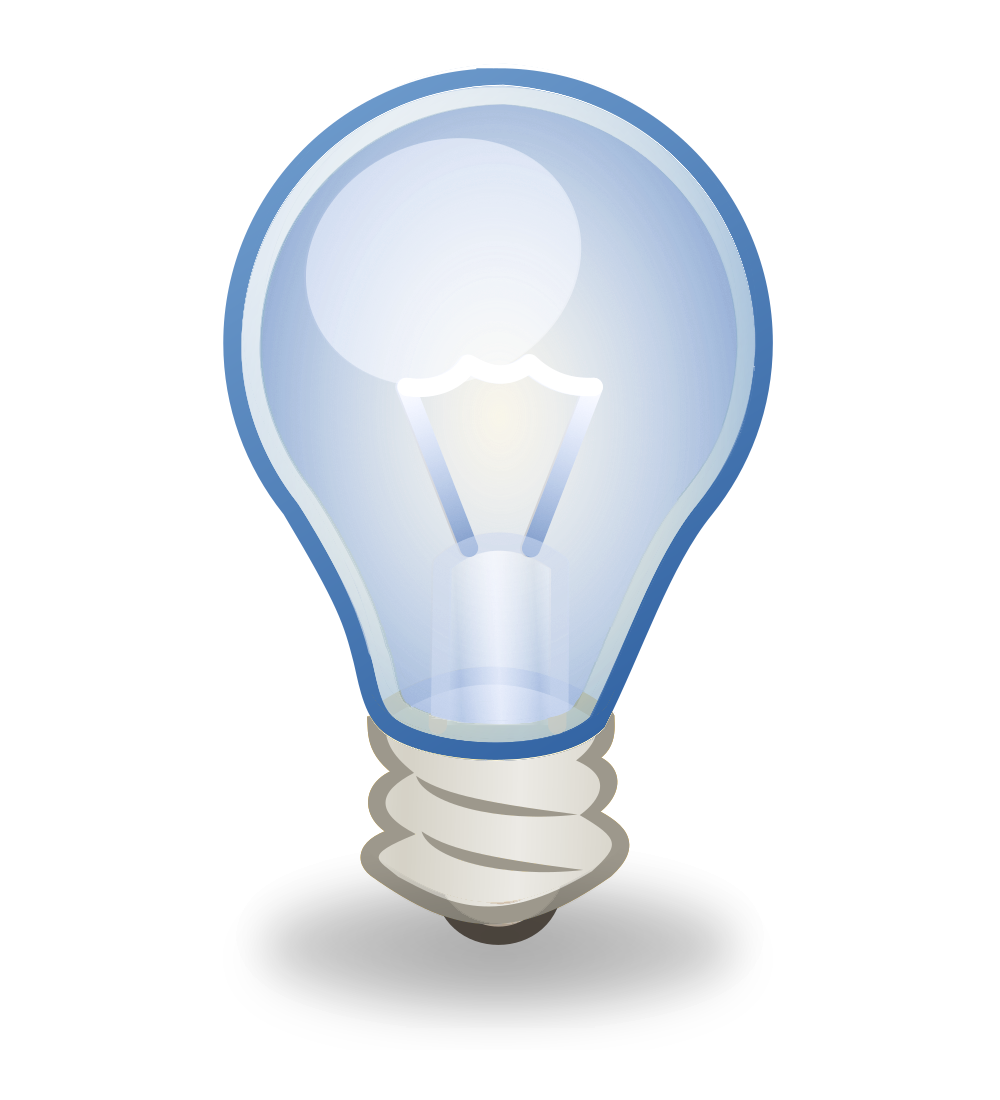
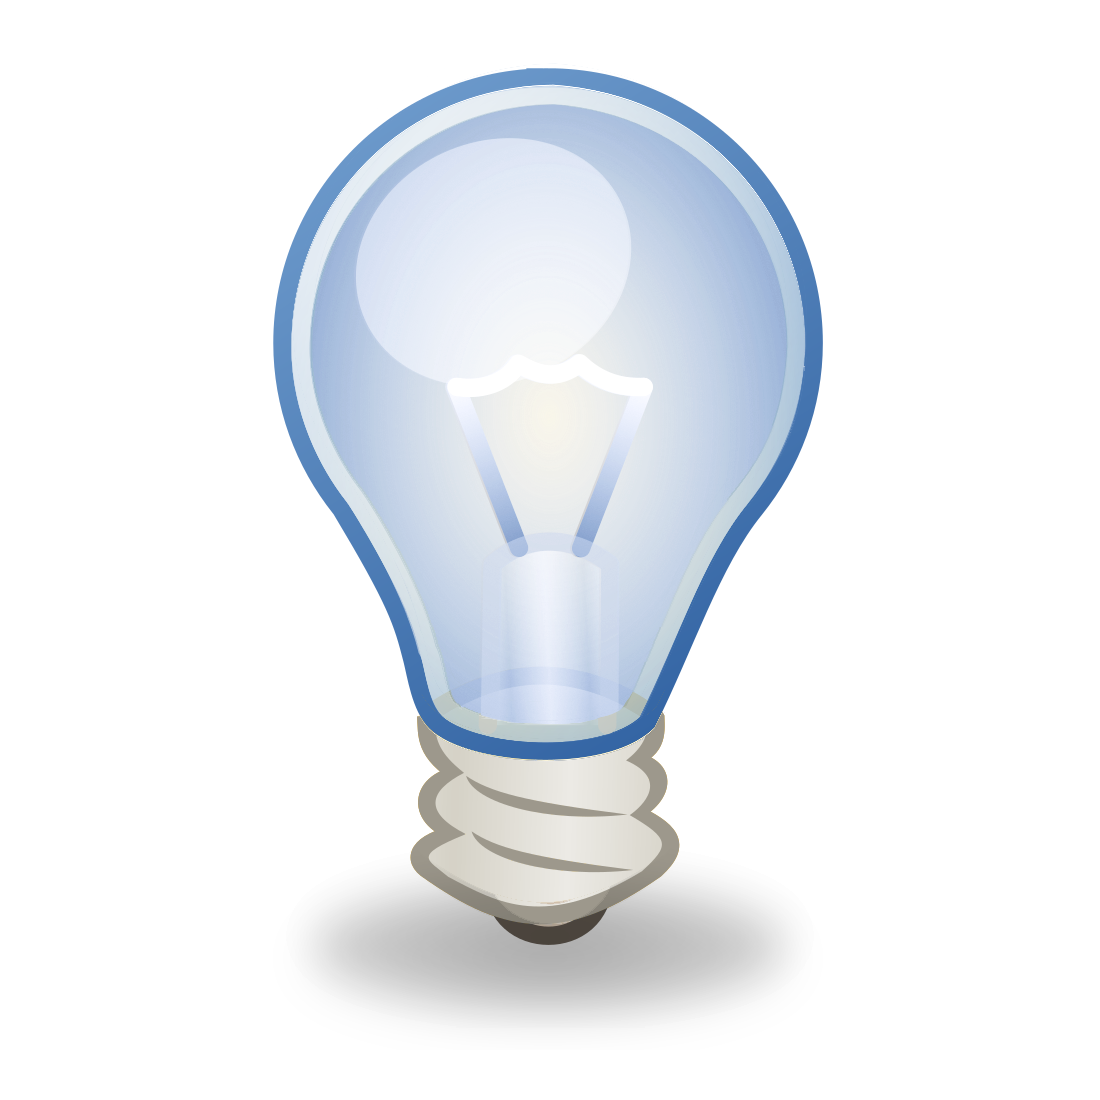
tiny phone optimizations!

diff --git a/helpers/Updater.js b/helpers/Updater.js
@@ -1,40 +1,101 @@
 /*
 Updater Helper - Enyo
- Version 0.1
- Created: 2020
+ Version 0.2
+ Created: 2022
  Author: Jonathan Wise
  License: MIT
  Description: A helper to check for and get updates from App Museum II web service.
     Does not require App Museum to be installed, but does require internet access, and Preware to do the actual install.
  Source: Find the latest version of this library and clean samples of how to use it on GitHub:
-    https://github.com/codepoet80/webos-catalog-frontend/tree/main/Examples
+    https://github.com/codepoet80/webos-common
 */
+
+//** Note: If you synced this file from a common repository, local edits may be over-written! */
 
 enyo.kind({
     name: "Helpers.Updater",
     kind: "Control",
+    sender: null,
     published: {
-        lastUpdateResponse: null,
+        OnUpdateResponse: function(sender, message) { this.PromptUserForUpdate(message) },
+        LastUpdateResponse: null,
+        deviceId: null,
+        appName: null
     },
+    
+    create: function() {
+        this.inherited(arguments);
+        enyo.log("Update Helper created.");
+    },
+
+    //#region Public
+    //  You can call these methods from your code
+    CheckForUpdate: function(sender, appName, callBack) {
+        this.sender = sender;
+        if (appName) {
+            this.appName = appName;
+            if (callBack)
+                this.OnUpdateResponse = callBack.bind(this);
+            if (window.location.hostname.indexOf(".media.cryptofs.apps") != -1) {
+                this.$.propertyRequest.call(
+                {
+                    key: "com.palm.properties.nduid"
+                },
+                {
+                    method: "Get"
+                });
+            } else {
+                this.performIdentifiedUpdateCheck(sender);
+            }
+        }
+    },
+
+    PromptUserForUpdate: function(message) {
+        if (this.LastUpdateResponse == null) {
+            enyo.log("Updater Helper: Not prompting user for update when no update has been discovered.");
+        } else {
+            if (!message)
+                message = "An update for this app was found in App Museum II:<br>Do you want to update now?";
+            else
+                message = "An update for this app was found in App Museum II:<br><br>" + message + "<br><br>Do you want to update now?";
+            this.$.updateMsg.setContent(message);
+            this.$.updatePopUp.openAtCenter();
+        }
+    },
+
+    InstallViaPreware: function(app) {
+        this.$.installRequest.call({ id: "org.webosinternals.preware", params: { type: "install", file: app } });
+    },
+    //#endregion
+
+    //#region Private
+    //  These members are used by the public methods and aren't meant to be called directly
     components: [{
             name: "updateServiceCheck",
             kind: "WebService",
-            url: "http://appcatalog.webosarchive.com/WebService/getLatestVersionInfo.php",
+            url: "http://appcatalog.webosarchive.com/WebService/getLatestVersionInfo.php?app=",
             onSuccess: "updateCheckSuccess",
             onFailure: "updateCheckFailure"
         },
         {
-            name: "serviceRequest",
+            name: "installRequest",
             kind: "PalmService",
             service: "palm://com.palm.applicationManager",
             method: "open"
+        },
+        {
+            name: "propertyRequest",
+            kind: "PalmService",
+            service: "palm://com.palm.preferences/systemProperties",
+            onSuccess: "performIdentifiedUpdateCheck",
+            onFailure: "performIdentifiedUpdateCheck"
         },
         {
             kind: "Popup",
             name: "updatePopUp",
             lazy: false,
             layoutKind: "VFlexLayout",
-            style: "width: 80%;height:210px",
+            style: "width: 80%;min-height:288px",
             components: [
                 { content: "<b>Update Available!</b>" },
                 {
@@ -55,46 +116,44 @@ enyo.kind({
             ]
         },
     ],
-    create: function() {
-        this.inherited(arguments);
-        enyo.log("Update Helper created as: " + this.name);
-    },
-    CheckForUpdate: function(appName) {
-        enyo.log("Update Helper is checking for updates...");
-        this.$.updateServiceCheck.call(appName);
-    },
-    openUpdatePopup: function(message) {
-        if (this.lastUpdateResponse == null) {
-            enyo.warn("Updater Helper: Not prompting user for update when no update has been discovered.");
-        } else {
-            if (!message)
-                message = "An update for this app was found in App Museum II. Do you want to update now?";
-            this.$.updateMsg.setContent(message);
-            this.$.updatePopUp.openAtCenter();
+    
+    performIdentifiedUpdateCheck: function(inSender, inResponse) {
+
+        var environment = enyo.fetchDeviceInfo();   //Find some info about the device (could be used for compat checks)
+        var deviceData = navigator.userAgent;
+        if (environment && environment.serialNumber) {
+            this.deviceId = environment.serialNumber;
+            locale = enyo.g11n.currentLocale().getLocale();
+            deviceData = environment.modelName + "/" + environment.platformVersion + "/" + (environment.carrierName || "WiFi") + "/" + locale;
         }
-    },
-    updateConfirmClick: function() {
-        this.$.updatePopUp.close();
-        if (!this.lastUpdateResponse || !this.lastUpdateResponse.downloadURI) {
-            enyo.warn("Updater Helper: Not performing update when no update has been discovered.");
-        } else {
-            enyo.log("Updater Helper doing update for: " + JSON.stringify(this.lastUpdateResponse));
-            this.$.serviceRequest.call({ id: "org.webosinternals.preware", params: { type: "install", file: this.lastUpdateResponse.downloadURI } });
+        else {
+            if (!enyo.getCookie("updater-uuid")) {
+                enyo.setCookie("updater-uuid", this.uniqueId());
+            }
+            this.deviceId = enyo.getCookie("updater-uuid");
         }
+        if (inResponse && inResponse["com.palm.properties.nduid"])
+            this.deviceId = inResponse["com.palm.properties.nduid"];
+
+        var newUrl = this.$.updateServiceCheck.url + this.appName;
+        newUrl = newUrl + "&clientid=" + this.deviceId;
+        newUrl = newUrl + "&device=" + encodeURIComponent(deviceData);
+        
+        enyo.log("Update Helper is checking for updates with URL: " + newUrl);
+        this.$.updateServiceCheck.setUrl(newUrl);
+        this.$.updateServiceCheck.call();
     },
-    updateCancelClick: function() {
-        this.$.updatePopUp.close();
-    },
+
     updateCheckSuccess: function(inSender, inResponse, inRequest) {
         var currVersion = enyo.fetchAppInfo().version;
         enyo.log("Updater Helper found Current version: " + currVersion + ", Update version: " + inResponse.version);
         currVersion = this.getVersionObject(currVersion);
         if (inResponse.version != null) {
-            this.lastUpdateResponse = inResponse;
+            this.LastUpdateResponse = inResponse;
             var museumVersion = this.getVersionObject(inResponse.version);
             if (this.isVersionHigher(currVersion, museumVersion)) {
                 enyo.log("Updater Helper found an update in webOS App Museum II!");
-                this.openUpdatePopup(inResponse.versionNote);
+                this.OnUpdateResponse(this.sender, inResponse.versionNote);
             } else {
                 enyo.log("Updater Helper did not find an update in webOS App Museum II!");
                 inResponse = false;
@@ -103,9 +162,25 @@ enyo.kind({
             enyo.error("Update Helper could not find museum version number");
         }
     },
+
     updateCheckFailure: function(inSender, inResponse, inRequest) {
         enyo.error("Got failure from update check: " + inResponse);
     },
+
+    updateConfirmClick: function() {
+        this.$.updatePopUp.close();
+        if (!this.LastUpdateResponse || !this.LastUpdateResponse.downloadURI) {
+            enyo.warn("Updater Helper: Not performing update when no update has been discovered.");
+        } else {
+            enyo.log("Updater Helper doing update for: " + JSON.stringify(this.LastUpdateResponse));
+            this.InstallViaPreware(this.LastUpdateResponse.downloadURI);
+        }
+    },
+
+    updateCancelClick: function() {
+        this.$.updatePopUp.close();
+    },
+
     //Turn a version string into an object with three independent number values
     getVersionObject: function(versionNum) {
         versionNumParts = versionNum.split(".");
@@ -121,6 +196,7 @@ enyo.kind({
             return versionObject;
         }
     },
+
     //Given a current version and a version to compare, return true or false if the compare version is newer
     isVersionHigher: function(currVersion, compareVersion) {
         if (!currVersion || !compareVersion) {
@@ -136,4 +212,11 @@ enyo.kind({
         }
     },
 
+    uniqueId: function() {
+        return Math.floor((1 + Math.random()) * 0x10000)
+              .toString(16)
+              .substring(1);
+    }
+
+    //#endregion
 });

diff --git a/source/HomeControl.js b/source/HomeControl.js
@@ -4,6 +4,7 @@ updateInt = null;
 enyo.kind({
 	name: "enyo.HomeControl",
 	kind: enyo.VFlexBox,
+	environment: null,
 	homeHelper: null,
 	username: null,
 	password: null,
@@ -87,11 +88,15 @@ enyo.kind({
 		this.inherited(arguments);
 
 		//Detect environment for appropriate behavior
-		enyo.log("Home Control is starting up on " + window.location.hostname + " as: " + this.name);
-		if (window.location.hostname != ".media.cryptofs.apps.usr.palm.applications.com.jonandnic.enyo.homecontrol") {
-			enyo.warn("webOS environment not detected, assuming a web server!");	
-		} else {
+		this.environment = enyo.fetchDeviceInfo();
+		if (this.environment)
 			this.$.myUpdater.CheckForUpdate("Home Control");
+		if (window.location.hostname && window.location.hostname.indexOf(".media.cryptofs.apps") != -1) {   // Running on webOS
+			enyo.log("webOS environment detected");
+		} else if(window.location.href.indexOf("file:///media/cryptofs") != -1) { // Running on LuneOS
+			enyo.log("LuneOS environment detected");
+		} else {    // Running in a web browser
+			enyo.warn("embedded environment not detected, assuming a web server!");
 		}
 
 		//Load preferences
@@ -162,6 +167,7 @@ enyo.kind({
 	},
 	roomClick: function(inSender, inEvent) {
 		enyo.log("Room clicked on row: " + inEvent.rowIndex);
+		this.selectNextView();
 		if (this.$.selectedRoom != inEvent.rowIndex) {
 			this.roomChanged = true;
 			this.$.selectedRoom = inEvent.rowIndex;
@@ -188,6 +194,7 @@ enyo.kind({
 	},
 	accessoryClick: function(inSender, inEvent) {
 		enyo.log("Accessory click on row: " + inEvent.rowIndex);
+		this.selectNextView();
 		this.$.selectedAccessory = inEvent.rowIndex;
 		this.$.accessoryList.select(inEvent.rowIndex);	//OR: this.$.accessoryList.refresh();
 	},
@@ -239,6 +246,18 @@ enyo.kind({
 			}
 		}
 		return candidateController;
+	},
+	selectNextView: function () {
+		if (this.environment && this.environment.modelName.toLowerCase() != "touchpad") {
+			var pane    = this.$.slidingPane;
+			var viewIdx = pane.getViewIndex();
+			if (viewIdx < pane.views.length - 1) {
+				viewIdx = viewIdx + 1;
+			} else {
+				return;	// we've selected the last available view.
+			}
+			pane.selectViewByIndex(viewIdx);
+		}
 	}
 });
 String.prototype.toTitleCase = function() {

diff --git a/controllers/ControllerDefault.js b/controllers/ControllerDefault.js
@@ -7,14 +7,16 @@ enyo.kind({
 	components: [
 		{kind: "VFlexBox", flex: 2, pack: "center", components: [
 			{w: "fill", domStyles: {"text-align": "center"}, components: [
-				{kind: "Image", flex:1, name: "imageDetail", src: "icons/icon-256x256.png", onclick: "lightControlClick", domStyles: {width: "400px", "margin-left": "auto", "margin-right": "auto"}},
+				{kind: "Image", flex:1, name: "imageDetail", src: "icons/icon-256x256.png", onclick: "lightControlClick", domStyles: {width: "200px", "margin-left": "auto", "margin-right": "auto"}},
 			]},
 			{w: "fill", name: "captionDetail", content: "Home Control", domStyles: {"text-align": "center", "margin-left": "100px", "margin-right": "100px"}}
 		]},
 
 	],
 	create: function() {
-		enyo.warn("Default Controller created!");
 		this.inherited(arguments);
+		enyo.warn(this.name + " created!");
+		this.$.imageDetail.applyStyle("height", (window.innerHeight * 0.4) + "px");
+		this.$.imageDetail.applyStyle("width", (window.innerHeight * 0.4) + "px");
 	},
 });

diff --git a/controllers/garagedoor/ControllerGarageDoor.js b/controllers/garagedoor/ControllerGarageDoor.js
@@ -12,8 +12,10 @@ enyo.kind({
         OnAccessoryStateChanged: function(sender) { enyo.warn(this.name + " changed accessory state, but no one is listening to the event!"); },
 	},
 	create: function() {
-		enyo.warn(this.name + " created!");
 		this.inherited(arguments);
+		enyo.warn(this.name + " created!");
+		this.$.imageDetail.applyStyle("height", (window.innerHeight * 0.4) + "px");
+		this.$.imageDetail.applyStyle("width", (window.innerHeight * 0.4) + "px");
 	},
 	SetState: function(state) {	//This is a UI function only, to actually change the accessory value, call the Helper
 		enyo.log(this.name + " is setting " + this.SupportedAccessories[0] + " state to: " + state);

diff --git a/controllers/lightbulb/ControllerLightbulb.js b/controllers/lightbulb/ControllerLightbulb.js
@@ -12,8 +12,10 @@ enyo.kind({
         OnAccessoryStateChanged: function(sender) { enyo.warn(this.name + " changed accessory state, but no one is listening to the event!"); },
 	},
 	create: function() {
-		enyo.warn(this.name + " created!");
 		this.inherited(arguments);
+		enyo.warn(this.name + " created!");
+		this.$.imageDetail.applyStyle("height", (window.innerHeight * 0.4) + "px");
+		this.$.imageDetail.applyStyle("width", (window.innerHeight * 0.4) + "px");
 	},
 	SetState: function(state) {	//This is a UI function only, to actually change the accessory value, call the Helper
 		enyo.log(this.name + " is setting " + this.SupportedAccessories[0] + " state to: " + state);

diff --git a/controllers/colorbulb/ControllerColorbulb.js b/controllers/colorbulb/ControllerColorbulb.js
@@ -17,8 +17,8 @@ enyo.kind({
 
 	],
 	create: function() {
-		enyo.warn("Lightbulb Controller created!");
 		this.inherited(arguments);
+		enyo.warn(this.name + " created!");
 	},
 	SetState: function(state) {
 		enyo.log("the lightbulb state should be: " + state)

diff --git a/controllers/tempsensor/ControllerTemperatureSensor.js b/controllers/tempsensor/ControllerTemperatureSensor.js
@@ -14,7 +14,7 @@ enyo.kind({
 
 	],
 	create: function() {
-		enyo.warn("Temperature Sensor Controller created!");
 		this.inherited(arguments);
+		enyo.warn(this.name + " created!");
 	},
 });
